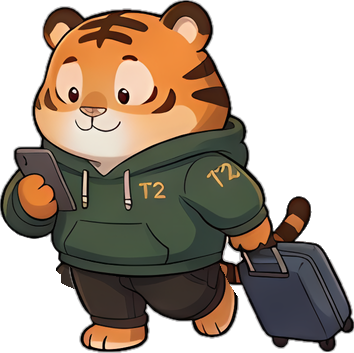
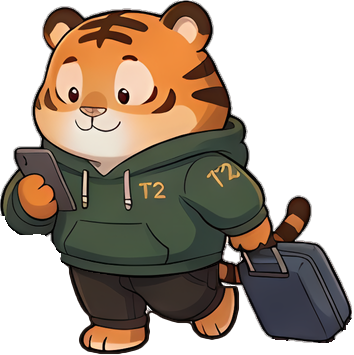
호랑이 다리 마감 정리: 깨진 곳·끊긴 윤곽선·흰 테두리 제거
- lockbody.py 다시 작성: 다리 오른쪽 경계를 고정 직선 대신 실제 캐리어 가장자리로 (뒷다리가 세로로 잘리던 문제), 손·손잡이·꼬리 묶음은 기준 그림만 쓰고 각 칸의 캐리어·꼬리 조각은 버림, 밑단 바로 아래에선 기준 그림 엉덩이 폭을 넘지 않게, 다리를 후드 밑으로 6px 넣어 밑단 점선 틈 제거
- inkfix.py: 다리 실루엣을 매끄럽게 하고 구멍을 채운 뒤 바깥 윤곽선을 원래 선 굵기로 다시 그림, 흰 배경에서 오려낸 흰 테두리를 선 색으로 바꿈
- stride_tween.py: 같은 규칙과 마감 적용, 앞다리가 뒷다리 위에 겹치는 곳에 윤곽선 추가

Claude-Session: https://claude.ai/code/session_012VFbGgDXK9mz8qoLwWp9w1

diff --git a/art/tools/lockbody.py b/art/tools/lockbody.py
@@ -1,87 +1,127 @@
 """One upper body (head, hoodie, arms, tail, suitcase) from a base frame + the legs of each frame.
-Legs = below the hoodie hem and left of the suitcase (per row, from the base frame).
-usage: lockbody.py DIR BASE OUTDIR f1,f2,...   (frames DIR/f_<n>.png, walking left)"""
+usage: lockbody.py DIR BASE OUTDIR f1,f2,...   (frames DIR/f_<n>.png, walking left)
+
+The base frame keeps: everything above its hoodie hem, its suitcase (body + outline), and the block
+right of the pulling hand above the suitcase (hand, handle, tail). Everything else below the hem
+is legs and comes from each frame, aligned on the head and the hem. Cleanup, so no seam shows:
+- each frame contributes only its leg blob (its own suitcase, handle and stray bits are dropped);
+- right under the hem the legs may not stick out past the base's hips;
+- where a leg is cut by the suitcase or the hip line, the cut edge gets the drawing's outline.
+"""
 import sys, os, numpy as np, cv2
+sys.path.insert(0, os.path.dirname(os.path.abspath(__file__)))
+from inkfix import reink, defringe
 from PIL import Image
-d, base, outd, names = sys.argv[1], sys.argv[2], sys.argv[3], sys.argv[4].split(',')
-os.makedirs(outd, exist_ok=True)
-def load(n): return np.asarray(Image.open(os.path.join(d, 'f_%s.png' % n)).convert('RGBA')).astype(np.float32)
-def hem(a, right):
+
+OUTLINE = np.array([34, 24, 20, 255], np.float32)   # the line colour of the drawing
+HAND_BLOCK = (218, 286)    # x >= 218 and y < 286 in the base: pulling hand, handle, tail -> base
+HIP_ROWS = 22              # rows under the hem where legs stay inside the base's hips
+
+
+def load(d, n):
+    return np.asarray(Image.open(os.path.join(d, 'f_%s.png' % n)).convert('RGBA')).astype(np.float32)
+
+
+def hem_rows(a, right=215):
     r, g, b, al = a[..., 0], a[..., 1], a[..., 2], a[..., 3]
     green = (g > r + 5) & (g > b) & (al > 128)
-    h = np.full(a.shape[1], -1)
-    for x in range(a.shape[1]):
+    W = a.shape[1]
+    h = np.full(W, -1)
+    for x in range(W):
         ys = np.nonzero(green[:, x])[0]
         if len(ys) >= 3: h[x] = ys.max()
-    ok = np.nonzero((h > 0) & (np.arange(len(h)) < right))[0]
-    hh = np.interp(np.arange(len(h)), ok, h[ok])
-    hp = np.pad(hh, 10, mode='edge'); hh = np.array([np.median(hp[i:i + 21]) for i in range(len(hh))])
-    hh[:ok.min()] = hh[ok.min()]; hh[ok.max():] = hh[ok.max()]
-    hem.end = ok.max()
-    return hh.round().astype(int)
-def suitcase_left(a):
-    """per row: leftmost x of the suitcase (navy body + its outline + handle) in the base frame"""
+    ok = np.nonzero((h > 0) & (np.arange(W) < right))[0]
+    hh = np.interp(np.arange(W), ok, h[ok])
+    hp = np.pad(hh, 10, mode='edge')
+    hh = np.array([np.median(hp[i:i + 21]) for i in range(W)])
+    return hh.round().astype(int), int(np.median(h[ok]))
+
+
+def navy_mask(a, grow=3):
     r, g, b, al = a[..., 0], a[..., 1], a[..., 2], a[..., 3]
     navy = (b > r + 4) & (b >= g) & (al > 128)
     n, lab, st, _ = cv2.connectedComponentsWithStats(navy.astype(np.uint8))
-    k = 1 + int(np.argmax(st[1:, cv2.CC_STAT_AREA]))
-    body = cv2.dilate((lab == k).astype(np.uint8), np.ones((7, 7), np.uint8)).astype(bool)
-    x0, y0 = st[k, 0], st[k, 1]
-    grey = (np.minimum(np.minimum(r, g), b) > 90) & (np.ptp(a[..., :3], axis=2) < 30) & (al > 128)
-    handle = grey.copy(); handle[:, :x0 - 30] = False; handle[y0:] = False; handle[:y0 - 70] = False
-    m = body | handle
-    H, W = m.shape; left = np.full(H, W, float)
-    for y in range(H):
-        xs = np.nonzero(m[y])[0]
-        if len(xs): left[y] = xs.min() - 1
-    rows = np.nonzero(left < W)[0]
-    left[:rows.min()] = W; left[rows.max():] = left[rows.max()]
-    return left.astype(int)
-def head_x(a):
-    al = a[..., 3] > 128; top = np.nonzero(al.any(1))[0][0]
-    return np.nonzero(al[top:top + 120])[1].mean()
-def unwhite(a, hm, left):
-    """light-grey gap between the pulling arm and the body, left over from the sheet"""
-    r, g, b = a[..., 0], a[..., 1], a[..., 2]
-    mn = np.minimum(np.minimum(r, g), b); mx = np.maximum(np.maximum(r, g), b)
-    yy = np.arange(a.shape[0])[:, None]; xx = np.arange(a.shape[1])[None]
-    xl = int(np.median(left[hm - 40:hm]))
-    a[(mn > 200) & (mx - mn < 30) & (xx > xl - 60) & (xx < xl + 25) & (yy > hm - 70) & (yy < hm + 25)] = 0
+    if n < 2: return np.zeros(navy.shape, bool)
+    keep = np.isin(lab, [k for k in range(1, n) if st[k, cv2.CC_STAT_AREA] > 200])
+    return cv2.dilate(keep.astype(np.uint8), np.ones((2 * grow + 1, 2 * grow + 1), np.uint8)).astype(bool)
 
-B = load(base); H, W = B.shape[:2]
-left = suitcase_left(B); hb = hem(B, int(np.median(left)))
-unwhite(B, int(np.median(hb)), left)
-pad = 40
-yy = np.arange(H + pad)[:, None]; xx = np.arange(W)[None]
-hbp = hb[None]; lp = np.concatenate([left, np.full(pad, left[-1])])[:, None]
-# legs zone: below the hem and left of a line drawn on the base frame (x at y), clear of the
-# tail, the pulling hand, the handle and the suitcase - those always come from the base
-EDGE = [(0, 218), (262, 218), (285, 230), (305, 243), (H + pad, 258)]
-xb = np.interp(np.arange(H + pad), [p[0] for p in EDGE], [p[1] for p in EDGE])[:, None]
-region = (yy > hbp + 3) & (xx < xb)
-band = region[:H] & (yy[:H] < hbp + 24)
-hemB = int(np.median(hb[:int(np.median(left))]))
-for k, n in enumerate(names):
-    F = load(n); fl = suitcase_left(F); hf = hem(F, int(np.median(fl)))
-    dx = int(round(head_x(B) - head_x(F))); dy = hemB - int(np.median(hf[:int(np.median(fl))]))
-    canvas = np.zeros((H + pad, W, 4), np.float32)
-    Fl = F.copy(); yf = np.arange(F.shape[0])[:, None]
-    xf = np.arange(F.shape[1])[None]
-    Fl[~(yf > hf[None] - 4)] = 0                          # this frame below its own hem
-    sh = np.zeros_like(canvas)
-    ys0, ys1 = max(0, -dy), min(F.shape[0], H + pad - dy); xs0, xs1 = max(0, -dx), min(F.shape[1], W - dx)
-    sh[ys0 + dy:ys1 + dy, xs0 + dx:xs1 + dx] = Fl[ys0:ys1, xs0:xs1]
-    sh[~region] = 0
-    n_, lab_, st_, _ = cv2.connectedComponentsWithStats((sh[..., 3] > 0).astype(np.uint8))
-    sh[np.isin(lab_, [i for i in range(1, n_) if st_[i, cv2.CC_STAT_AREA] < 80])] = 0   # stray bits of its own tail/suitcase
-    # base underneath, only in a band under the hem: fills the small holes where the two frames disagree
-    canvas[:H][band] = B[band]
-    a = sh[..., 3:4] / 255.
-    canvas[..., :3] = sh[..., :3] * a + canvas[..., :3] * (1 - a); canvas[..., 3:] = np.maximum(canvas[..., 3:], sh[..., 3:])
-    up = B.copy(); up[region[:H]] = 0
-    a = up[..., 3:4] / 255.
-    canvas[:H, :, :3] = up[..., :3] * a + canvas[:H, :, :3] * (1 - a)
-    canvas[:H, :, 3:] = np.maximum(canvas[:H, :, 3:], up[..., 3:])
-    al = canvas[..., 3] > 0; ys, xs = np.nonzero(al)
-    Image.fromarray(canvas.clip(0, 255).astype(np.uint8)).crop((xs.min(), ys.min(), xs.max() + 1, ys.max() + 1)).save(os.path.join(outd, 'f_%d.png' % k))
-    print(n, 'dx', dx, 'dy', dy)
+
+def head_x(a):
+    al = a[..., 3] > 128
+    top = np.nonzero(al.any(1))[0][0]
+    return np.nonzero(al[top:top + 120])[1].mean()
+
+
+def edge_of(mask):
+    m = mask.astype(np.uint8)
+    return mask & ~cv2.erode(m, np.ones((3, 3), np.uint8)).astype(bool)
+
+
+def over(dst, src):                       # premultiplied
+    return src + dst * (1 - src[..., 3:] / 255.)
+
+
+def premul(a):
+    p = a.copy(); p[..., :3] *= p[..., 3:] / 255.; return p
+
+
+def unpremul(p):
+    out = p.copy(); al = p[..., 3:]
+    out[..., :3] = np.where(al > 0, p[..., :3] * 255. / np.maximum(al, 1e-3), 0)
+    return out
+
+
+def main():
+    d, base, outd, names = sys.argv[1], sys.argv[2], sys.argv[3], sys.argv[4].split(',')
+    os.makedirs(outd, exist_ok=True)
+    B = load(d, base)
+    H, W = B.shape[:2]
+    hb, hemB = hem_rows(B)
+    pad = 40
+    HH = H + pad
+    yy, xx = np.mgrid[0:HH, 0:W]
+    hbp = np.concatenate([hb[None].repeat(HH, 0)], 0)
+    Bp = np.zeros((HH, W, 4), np.float32); Bp[:H] = B
+    keep = (yy <= hbp + 2) | navy_mask(Bp) | ((xx >= HAND_BLOCK[0]) & (yy < HAND_BLOCK[1]))
+    region = ~keep
+    # legs reach a little under the hoodie so no gap shows along the hem's soft edge
+    legzone = (yy > hbp - 4) & ~(navy_mask(Bp) | ((xx >= HAND_BLOCK[0]) & (yy < HAND_BLOCK[1])))
+    base_al = Bp[..., 3] > 20
+    hips = cv2.dilate(base_al.astype(np.uint8), np.ones((3, 3), np.uint8)).astype(bool)
+    top = premul(Bp); top[region] = 0
+    band = premul(Bp); band[~(region & (yy < hbp + 16))] = 0
+    for k, n in enumerate(names):
+        F = load(d, n)
+        hf, hemF = hem_rows(F)
+        dx = int(round(head_x(B) - head_x(F))); dy = hemB - hemF
+        L = np.zeros((HH, W, 4), np.float32)
+        ys0, ys1 = max(0, -dy), min(F.shape[0], HH - dy)
+        xs0, xs1 = max(0, -dx), min(F.shape[1], W - dx)
+        L[ys0 + dy:ys1 + dy, xs0 + dx:xs1 + dx] = F[ys0:ys1, xs0:xs1]
+        hfp = np.full(W, hemB)                         # the frame's hem, moved like the frame
+        L[yy <= hbp - 4] = 0                            # this frame's hoodie stays out (top covers the rest)
+        L[navy_mask(L)] = 0                             # and its own suitcase
+        before = L[..., 3] > 20
+        clip = legzone & ~((yy < hbp + 2 + HIP_ROWS) & ~hips)
+        L[~clip] = 0
+        a = L[..., 3] > 20
+        n_, lab, st, _ = cv2.connectedComponentsWithStats(a.astype(np.uint8), connectivity=8)
+        if n_ > 1:
+            big = 1 + int(np.argmax(st[1:, cv2.CC_STAT_AREA]))
+            L[(lab != big) & (lab > 0)] = 0
+            a = lab == big
+        # one clean silhouette and outline for the legs; the hem edge is covered by the hoodie
+        Lp = reink(premul(L), allow=clip.astype(np.float32), protect=(yy < hbp + 8))
+        a = Lp[..., 3] > 20
+        # base pants under the hem only fill gaps inside this frame's legs, never widen them
+        bnd = band.copy(); bnd[~cv2.erode(a.astype(np.uint8), np.ones((5, 5), np.uint8)).astype(bool)] = 0
+        out = over(over(bnd, Lp), top)
+        res = defringe(unpremul(out))
+        al = res[..., 3] > 0
+        ys, xs = np.nonzero(al)
+        Image.fromarray(res.clip(0, 255).astype(np.uint8)).crop((0, ys.min(), W, ys.max() + 1)).save(os.path.join(outd, 'f_%d.png' % k))
+        print(n, 'dx', dx, 'dy', dy)
+
+
+if __name__ == '__main__':
+    main()

diff --git a/art/tools/inkfix.py b/art/tools/inkfix.py
@@ -1,0 +1,61 @@
+"""Finishing pass for edited legs: one clean silhouette and one even outline, like the drawing.
+
+reink(layer, allow, protect): layer is a premultiplied RGBA float image holding only the legs.
+- the silhouette is smoothed (no stair steps, no pinholes, no slivers);
+- pixels the smoothing adds are painted from their neighbours;
+- the outer ring is redrawn in the line colour, about as thick as the drawing's lines, except
+  where `protect` is set (e.g. along the hoodie hem, which covers that edge anyway);
+- the outer edge is anti-aliased.
+"""
+import numpy as np, cv2
+
+LINE = np.array([34, 24, 20], np.float32)
+WIDTH = 2.6          # px, the drawing's line width at this size
+
+
+def reink(layer, allow=None, protect=None):
+    a = layer[..., 3] > 40
+    if not a.any():
+        return layer
+    k5 = cv2.getStructuringElement(cv2.MORPH_ELLIPSE, (5, 5))
+    m = cv2.morphologyEx(a.astype(np.uint8), cv2.MORPH_CLOSE, k5)
+    m = cv2.morphologyEx(m, cv2.MORPH_OPEN, cv2.getStructuringElement(cv2.MORPH_ELLIPSE, (3, 3)))
+    soft = cv2.GaussianBlur(m.astype(np.float32), (0, 0), 1.3)
+    if allow is not None:
+        soft = soft * allow
+    inside = soft > 0.5
+    # colour for pixels the smoothing added: painted in from the neighbours
+    rgb = np.zeros(layer.shape[:2] + (3,), np.float32)
+    al = layer[..., 3:] / 255.
+    rgb[a] = (layer[..., :3][a] / np.maximum(al[a], 1e-3))
+    hole = (inside & ~a).astype(np.uint8)
+    if hole.any():
+        rgb = cv2.inpaint(rgb.clip(0, 255).astype(np.uint8), hole, 3, cv2.INPAINT_TELEA).astype(np.float32)
+    # line along the outside edge: distance from the outside, in px
+    dist = cv2.distanceTransform(inside.astype(np.uint8), cv2.DIST_L2, 3)
+    ring = np.clip((WIDTH + 0.5 - dist), 0, 1)                 # 1 on the edge, fading inward
+    if protect is not None:
+        ring = ring * (~protect)
+    rgb = rgb * (1 - ring[..., None]) + LINE * ring[..., None]
+    alpha = np.clip((soft - 0.5) * 3.0 + 0.5, 0, 1)               # anti-aliased outer edge
+    alpha[inside & (dist > 1.5)] = 1
+    out = np.zeros_like(layer)
+    out[..., 3] = alpha * 255
+    out[..., :3] = rgb * alpha[..., None]
+    return out
+
+
+def defringe(rgba, width=2):
+    """Light, colourless pixels on the outer edge are leftovers of the white sheet: make them line
+    colour (straight RGBA in, straight RGBA out)."""
+    a = rgba[..., 3] > 0
+    solid = rgba[..., 3] > 200
+    near_out = ~cv2.erode(a.astype(np.uint8), np.ones((2 * width + 1, 2 * width + 1), np.uint8)).astype(bool) & a
+    rgb = rgba[..., :3]
+    mn, mx = rgb.min(-1), rgb.max(-1)
+    light = (mn > 150) & (mx - mn < 40)
+    fix = near_out & light
+    out = rgba.copy()
+    out[..., :3][fix] = LINE
+    out[..., 3][fix & ~solid] = np.minimum(out[..., 3][fix & ~solid], 160)
+    return out

diff --git a/art/tools/stride_tween.py b/art/tools/stride_tween.py
@@ -6,7 +6,10 @@ between them are pulled along smoothly. Upper body (above the hem) is untouched.
     python3 art/tools/stride_tween.py IN OUT --front DX [--back DX] [--lift PX] [--cx X]
 """
 import argparse
+import os, sys
 import numpy as np, cv2
+sys.path.insert(0, os.path.dirname(os.path.abspath(__file__)))
+from inkfix import reink
 from PIL import Image
 
 ap = argparse.ArgumentParser()
@@ -45,21 +48,27 @@ def over(dst, src):
     return src + dst * (1 - src[..., 3:] / 255.)
 
 
-# right edge of the legs: a line along the suitcase's front edge (same as lockbody.py), clear of the
-# pulling hand and the handle
-EDGE = [(0, 218), (262, 218), (285, 230), (305, 243), (H, 258)]
-xb = np.interp(np.arange(H), [p[0] for p in EDGE], [p[1] for p in EDGE]).astype(np.float32)[:, None]
-legs = (yy > hm + 2) & (xx < np.minimum(xb, a.right))
+# legs: below the hem, minus the suitcase and the hand/handle/tail block (same rule as lockbody.py)
+from lockbody import navy_mask, HAND_BLOCK
+zone = (yy > hm - 4) & ~navy_mask(im) & ~((xx >= HAND_BLOCK[0]) & (yy < HAND_BLOCK[1]))   # where legs may be
+legs = zone & (im[..., 3] > 0)
 front_m = legs & (xx < a.cx)
 back_m = legs & (xx >= a.cx)
 top = pm.copy(); top[legs] = 0
 band = pm.copy(); band[~(legs & (yy < hm + 16))] = 0     # pants right under the hem fills small gaps
 front = pm.copy(); front[~front_m] = 0
 back = pm.copy(); back[~back_m] = 0
-out = band
-out = over(out, moved(back, -a.back, 0))
-out = over(out, moved(front, a.front, a.lift))
-out = over(out, top)
+mb = moved(back, -a.back, 0)
+mf = moved(front, a.front, a.lift)
+legs_l = over(over(band, mb), mf)
+# the front leg now overlaps the back one: draw its outline where it lies over the back leg
+fa = mf[..., 3] > 40
+edge = fa & ~cv2.erode(fa.astype(np.uint8), np.ones((3, 3), np.uint8)).astype(bool)
+edge &= (mb[..., 3] > 40) & (yy > hm + 8)
+edge = cv2.dilate(edge.astype(np.uint8), np.ones((2, 2), np.uint8)).astype(bool) & fa
+legs_l[edge] = np.array([34, 24, 20, 255], np.float32)
+legs_l = reink(legs_l, allow=zone.astype(np.float32), protect=(yy < hm + 8))
+out = over(legs_l, top)
 al = out[..., 3:]
 out[..., :3] = np.where(al > 0, out[..., :3] * 255. / np.maximum(al, 1e-3), 0)
 Image.fromarray(out.clip(0, 255).astype(np.uint8)).save(a.dst)
